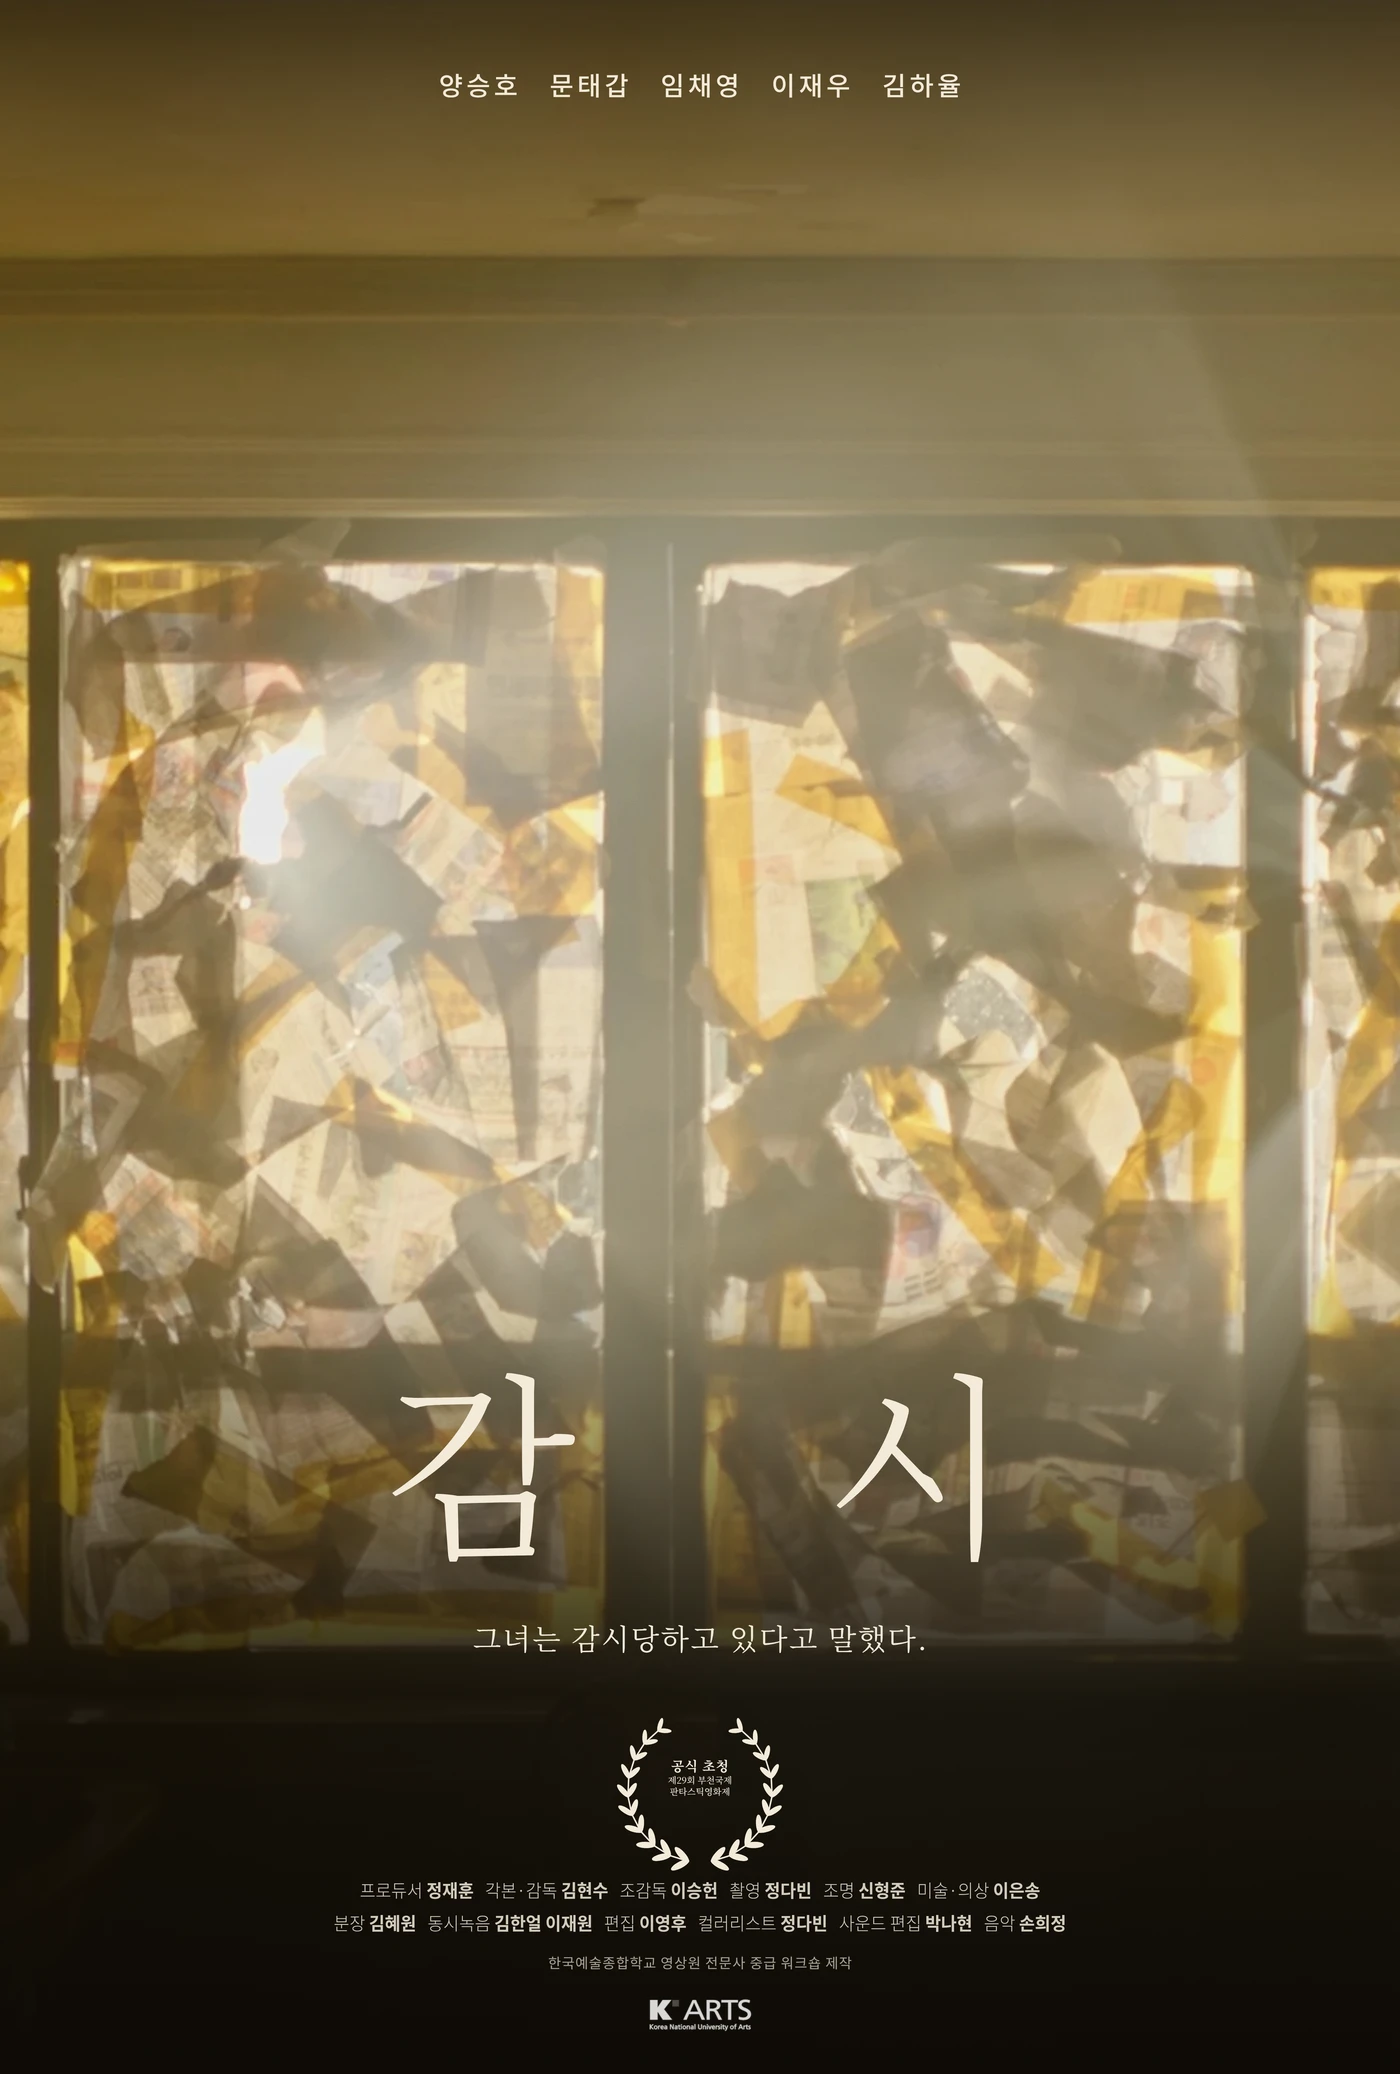
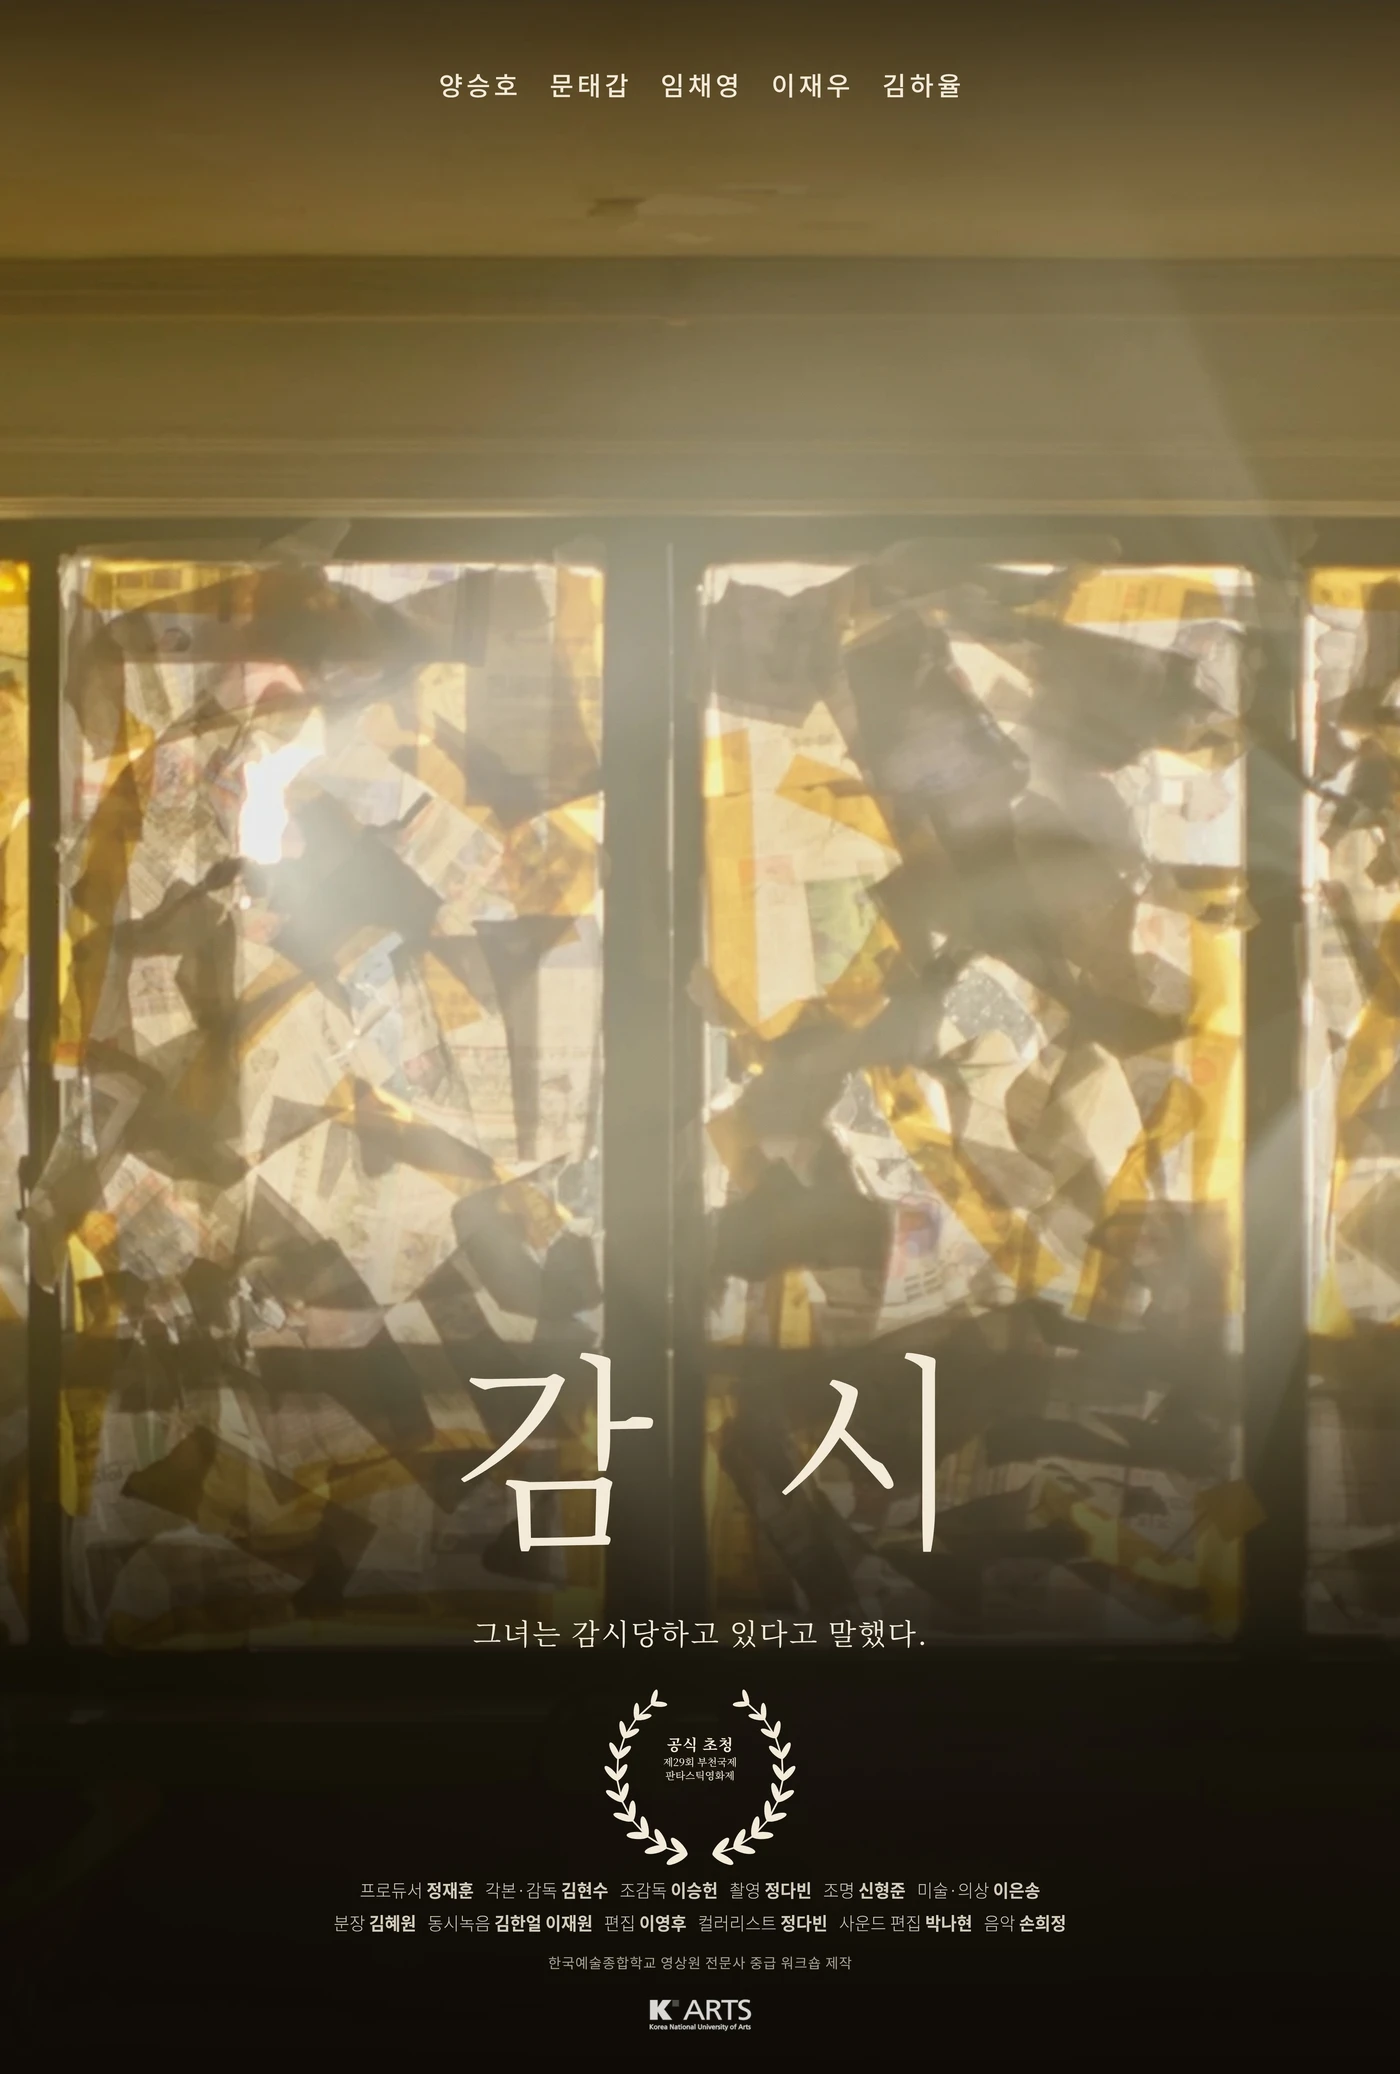
감시 포스터 교체
Claude-Session: https://claude.ai/code/session_01YYRb2KB3eF6Q3RKez6YmkW

Changed region(s): [[0.2764, 0.648, 0.645, 0.9257], [0.5836, 0.648, 0.7064, 0.7715]]

diff --git a/index.html b/index.html
@@ -2480,7 +2480,7 @@ const roleHTML=L=>L.map(roleTag).join('<span class="rl-sep"> · </span>');
 const roleEn=f=>roleHTML(roleList(f[2]));
 const roleShort=r=>[/Direct/.test(r)&&"Dir",/DOP/.test(r)&&"DOP",/Color/.test(r)&&"Color"].filter(Boolean).join(" + ");
 /* 로컬 원본 이미지 */
-const W=(k,t,n)=>`img/w/${k}/${t}${n}.webp${t==="p"?"?v=3":""}`;
+const W=(k,t,n)=>`img/w/${k}/${t}${n}.webp${t==="p"?"?v=4":""}`;
 const has=(k,t)=>MEDIA[k]&&MEDIA[k][t]&&MEDIA[k][t].length;
 const cover=(k,fallback)=>(typeof HQS!=="undefined"&&HQS[k])?HQU(k,0):has(k,"s")?W(k,"s",0):fallback;
 const rnd=n=>Math.floor(Math.random()*n);
